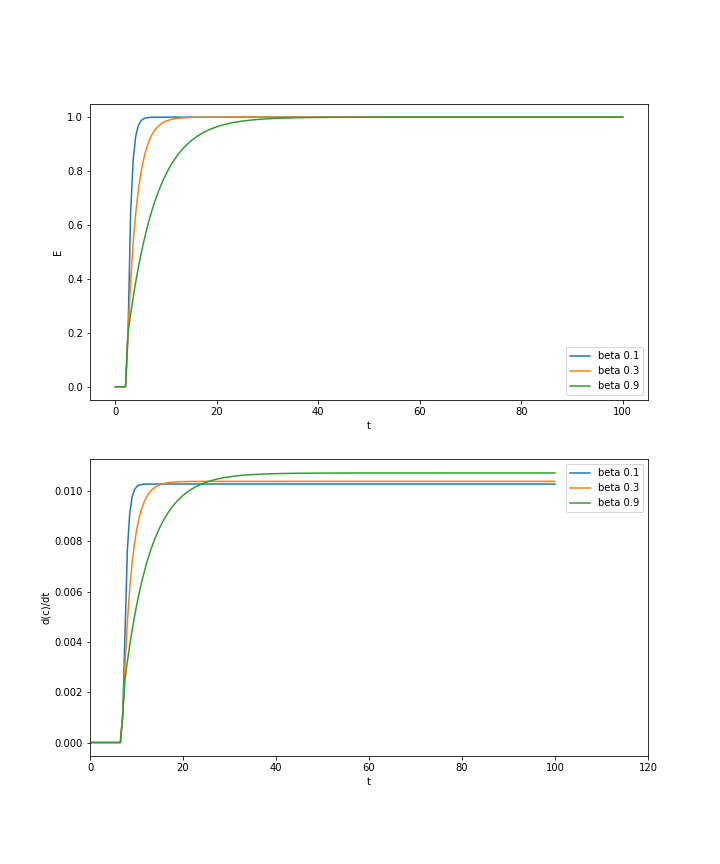
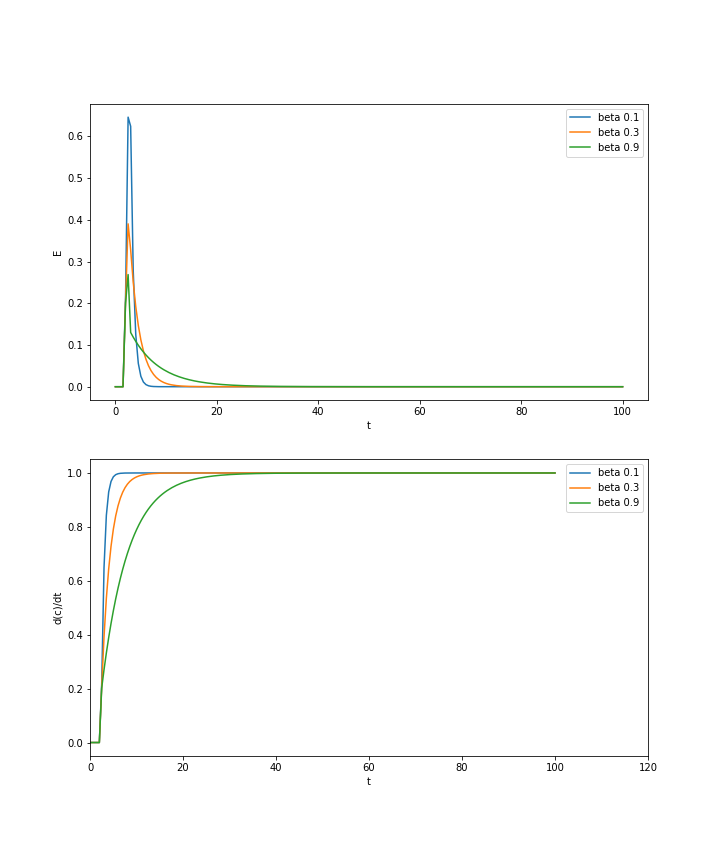
after meeting /0110

diff --git a/Experiments/Preliminary/Convolution_script/Convolution_015_Adler_havarka_Model/Conv_adlerhovarko_015.py b/Experiments/Preliminary/Convolution_script/Convolution_015_Adler_havarka_Model/Conv_adlerhovarko_015.py
@@ -11,13 +11,12 @@ import numpy as np
 import sympy as sp
 import wandb
 from nrtd import RTDModule
-
 if wandb.run is not None:
     wandb.finish()
 module_path = os.path.expanduser("~/Documents/GitHub/nRTD/lib")
 sys.path.append(module_path)
 
-adler_dir = '/Users/tuanaoyuncu/Documents/GitHub/nRTD/Experiments/Preliminary/Litrature/Adler_havarka_Model/tau_a_val_1_tau_p_val_2_tau_m_val_0.4000000000000001_beta_val_0.1'
+adler_dir = '/Users/tuanaoyuncu/Documents/GitHub/nRTD/Experiments/Preliminary/Litrature/Adler_havarka_Model/tau_a_val_3_tau_p_val_2_tau_m_val_0.4000000000000001_beta_val_0.1'
 
 t_conv_tau = torch.tensor(np.load(os.path.join(adler_dir, 'time.npy')), dtype=torch.float32).unsqueeze(0).unsqueeze(0)
 c_out_tau = torch.tensor(np.load(os.path.join(adler_dir, 'concentration.npy')), dtype=torch.float32).unsqueeze(0).unsqueeze(0)
@@ -26,8 +25,8 @@ c_out_tau = torch.tensor(np.load(os.path.join(adler_dir, 'concentration.npy')), 
 n_disc = 88
 t_input = torch.linspace(0, 25, n_disc)
 c_in = torch.zeros((1, 1, n_disc))
-c_in[::2, :, t_input > 1] = 1
-c_in[1::2, :, t_input < 1] = 1
+c_in[::2, :, t_input > 5] = 1
+c_in[1::2, :, t_input < 5] = 1
 
 #file_numbers = range(1, 21)
 c_out_list = []
@@ -59,7 +58,7 @@ model = RTDModule(
 c_conv = model(c_in)
 E = model.net.E[0]
 t_E = torch.linspace(0, 20, model.kernel_size)
-E = E / E.max()
+E = E /E.max()
 j = 0  
 
 plt.figure()
@@ -116,7 +115,7 @@ trainer.test(model, dl)
 c_conv = model(c_in)
 E = model.net.E[0]
 t_E = torch.linspace(0, 25, model.kernel_size)
-E = E / E.max()
+E = E/E.max()
 
 def compute_inverse_laplace(coefficients, t_values):
     s, t = sp.symbols('s t', real=True, positive=True)
@@ -140,7 +139,7 @@ def compute_inverse_laplace(coefficients, t_values):
                 })
     return results
 coefficients = {
-    'tau_a_val': np.array([1]),
+    'tau_a_val': np.array([3]),
     'tau_p_val': np.array([2]),
     'beta_val': np.array([0.1]),
     'alpha_val': 0.2
@@ -148,7 +147,7 @@ coefficients = {
 t_plot = torch.linspace(0, 40, 500).numpy()
 inverse_laplace_results = compute_inverse_laplace(coefficients, t_plot)
 E_expected = inverse_laplace_results[0]['E_t']
-
+E_expected =E_expected /E_expected.max()
 
 plt.figure()
 plt.plot(t_input, c_in[0, 0, :].numpy(), label="c_in", color="blue")

diff --git a/Experiments/Preliminary/Litrature/Adler_havarka_Model/Adler_havarka_Model_002.py b/Experiments/Preliminary/Litrature/Adler_havarka_Model/Adler_havarka_Model_002.py
@@ -57,8 +57,8 @@ for result in results:
     c_out = c_out_full[valid_indices]
     unified_dir = os.path.join(base_dir, f'tau_a_val_{tau_a_val}_tau_p_val_{tau_p_val}_tau_m_val_{tau_m_val}_beta_val_{beta_val}')
     os.makedirs(unified_dir, exist_ok=True)
-    np.save(os.path.join(unified_dir, 'time.npy'), t_conv)
-    np.save(os.path.join(unified_dir, 'concentration.npy'), c_out)
+    #np.save(os.path.join(unified_dir, 'time.npy'), t_conv)
+    #np.save(os.path.join(unified_dir, 'concentration.npy'), c_out)
     ax1.plot(t_values, E_t, label=f'tau_a={tau_a_val}, tau_p={tau_p_val}, tau_m={tau_m_val:.2f}, beta={beta_val}')
     ax2.plot(t_conv, c_out, label=f'tau_a={tau_a_val}, tau_p={tau_p_val}, tau_m={tau_m_val:.2f}, beta={beta_val}')
 ax1.set_xlabel('t')
@@ -67,12 +67,12 @@ ax1.legend()
 ax2.set_xticks(np.arange(0, 10, 1))
 ax2.plot(t_values, c_0, label='c_0', linestyle='--', color='black')
 ax2.set_xlim(0, 120)
-ax2.set_ylim(0, 1.1)
+#ax2.set_ylim(0, 1.1)
 ax2.set_xlabel('t')
 ax2.set_ylabel('C')
 ax2.legend()
 plt.tight_layout()
-plt.savefig('unified_time_delay_001.png', dpi=300)
+#plt.savefig('unified_time_delay_001.png', dpi=300)
 plt.show()
 for result in results:
     tau_a_val = result['tau_a_val']

diff --git a/Experiments/Preliminary/Litrature/Cholete_Model/Cholete_Model_004.py b/Experiments/Preliminary/Litrature/Cholete_Model/Cholete_Model_004.py
@@ -20,10 +20,10 @@ def Cholete(t: npt.NDArray[np.float64], alpha: float, beta: float, tau: float, g
     H = np.where(t < g, 0, 1)
     k = ((1 - alpha) / (beta * tau))
     exp_term = (1 - alpha) * np.exp(k * (g - t))
-    E = alpha * H - exp_term + (1 - alpha)
-    E[E < 0] = 0
-    # E /= np.trapz(E, t)  
-    return E
+    F = alpha * H - exp_term + (1 - alpha)
+    F[F < 0] = 0
+    E = np.gradient(F,t)  
+    return F,E
 
 t = np.linspace(0, 100, 200)
 c_0 = np.zeros_like(t)
@@ -34,7 +34,7 @@ beta_values = np.array([0.1, 0.3, 0.9])
 base_dir = '/Users/tuanaoyuncu/Documents/GitHub/nRTD/Experiments/Preliminary/Litrature/Cholete_Model'
 
 for beta in beta_values:
-    E = Cholete(t, 0.2, beta, 5, 2.5)
+    F,E = Cholete(t, 0.2, beta, 5, 2.5)
     
     E_t_normalized = E / np.sum(E)
     print(f"beta: {beta}, Integral of E: {np.sum(E)}")
@@ -49,7 +49,7 @@ for beta in beta_values:
     np.save(os.path.join(Bo_dir, 'concentration.npy'), E)
     c_out_derivative = np.gradient(c_out, t_conv)
     ax1.plot(t, E, label=f'beta {beta}')
-    ax2.plot(t_conv, c_out_derivative, label=f'beta {beta}')
+    ax2.plot(t, F, label=f'beta {beta}')
 
 ax1.set_xlabel('t')
 ax1.set_ylabel('E')

diff --git a/Experiments/Preliminary/Convolution_script/Convolution_011_Laminar_Model/Conv_laminar.py b/Experiments/Preliminary/Convolution_script/Convolution_011_Laminar_Model/Conv_laminar.py
@@ -146,5 +146,5 @@ plt.xlim((0, 20))
 plt.ylim((0, 1.1))
 plt.legend()
 
-plt.savefig("Figure_conv_laminar_002_dis200_expected")
+#plt.savefig("Figure_conv_laminar_002_dis200_expected")
 plt.show()
